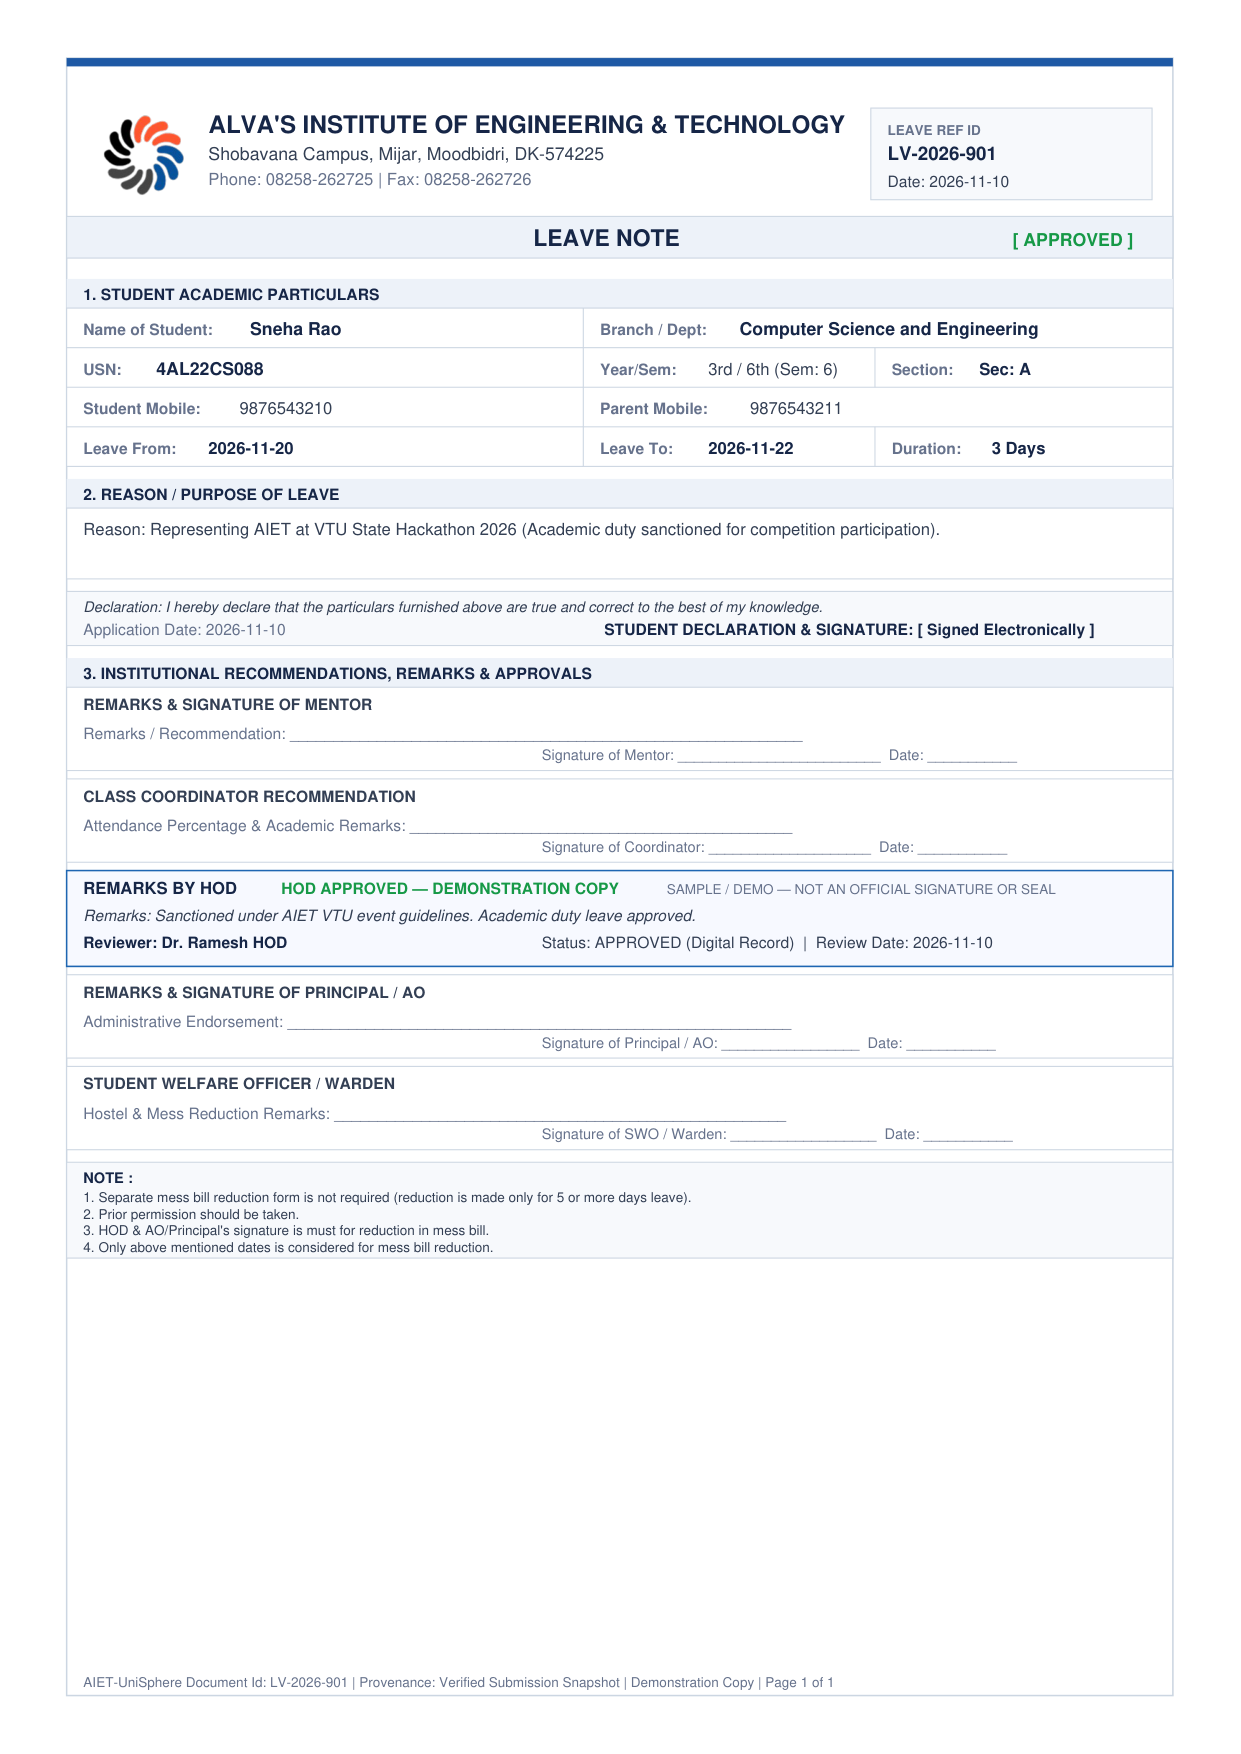
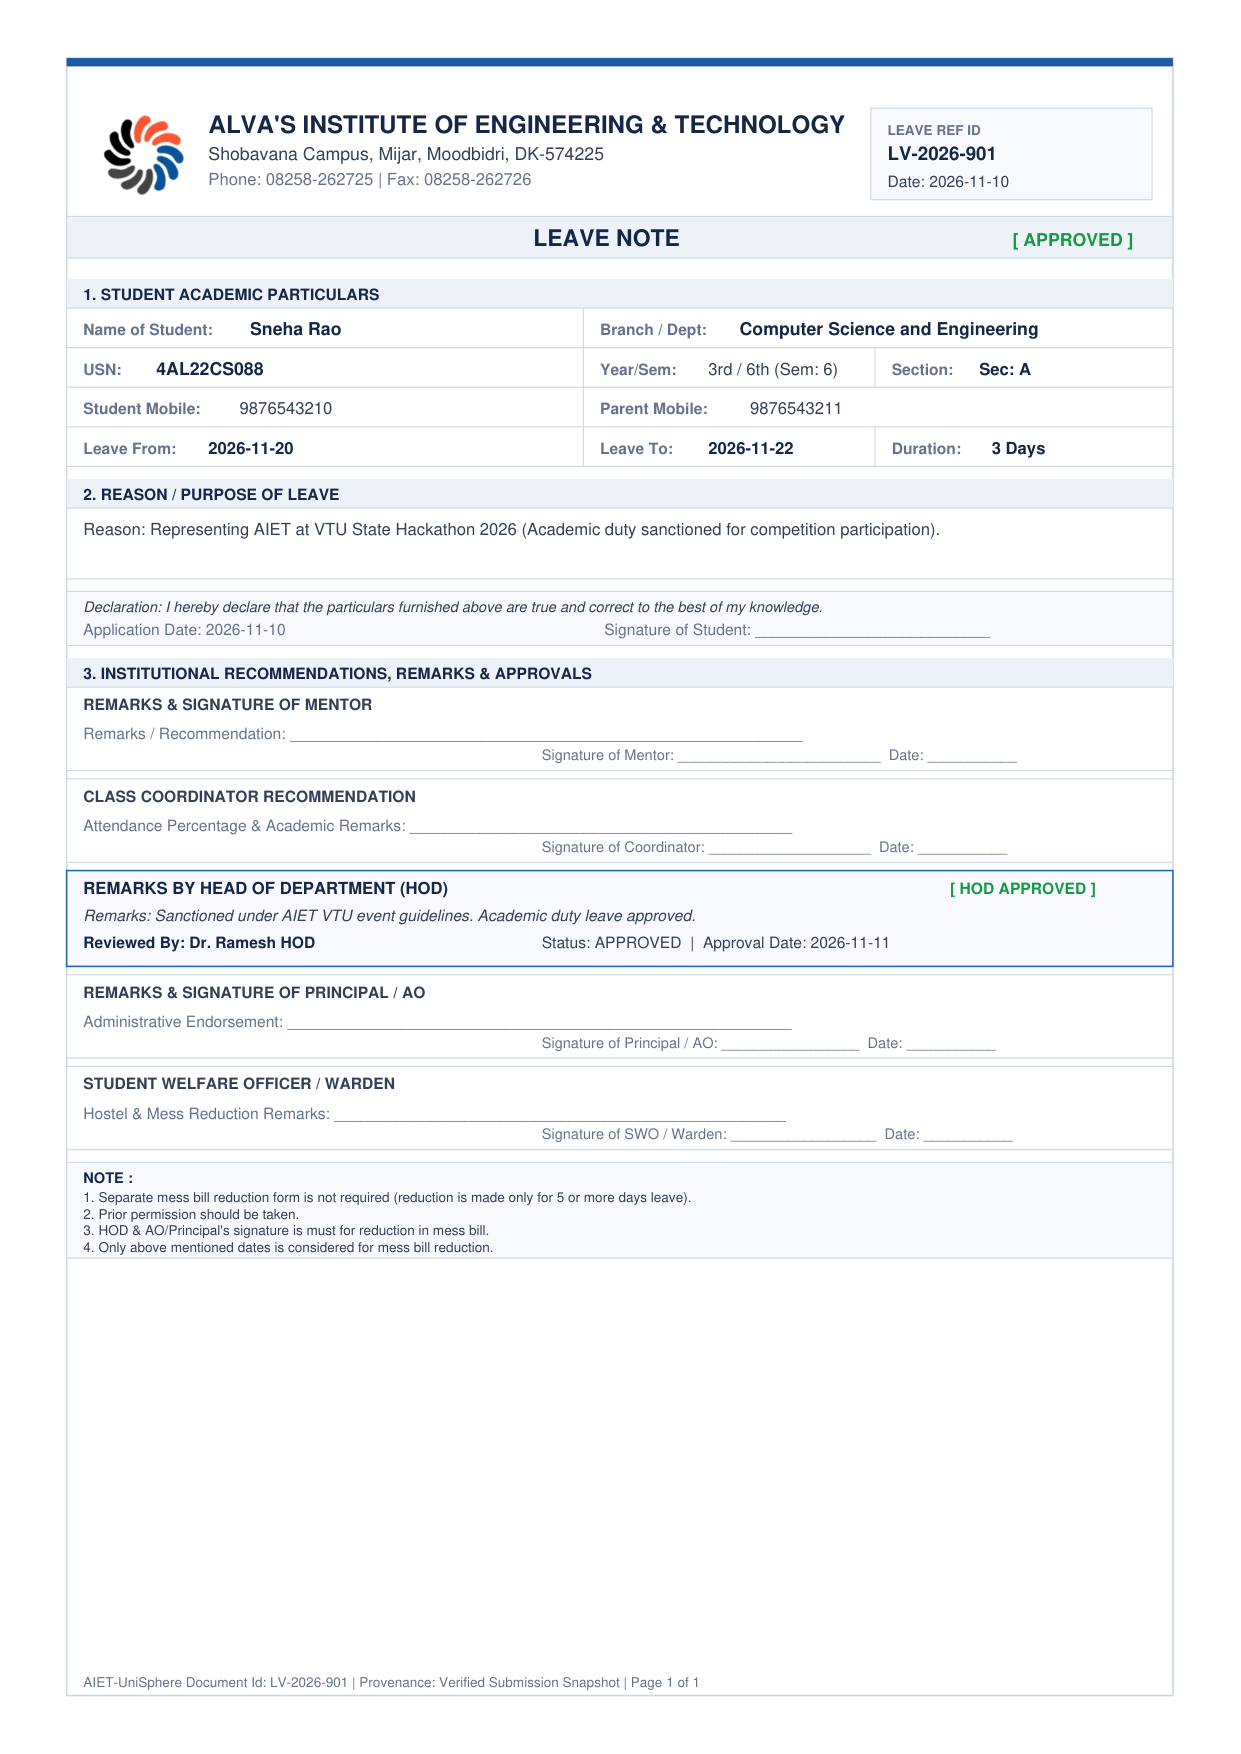
fix(leave): purge all demonstration fallbacks, enforce authentic approval metadata, and verify case-insensitive status button

diff --git a/src/services/leaveNotePdfService.ts b/src/services/leaveNotePdfService.ts
@@ -155,8 +155,8 @@ export const generateLeaveNoteDocument = async (
   const white = rgb(1, 1, 1);
 
   // 1. Resolve student details (prioritizing immutable snapshots)
-  const studentName = leave.studentNameSnapshot || leave.requesterName || 'Legacy Student';
-  const branchName = leave.branchSnapshot || leave.departmentName || 'Civil Engineering';
+  const studentName = leave.studentNameSnapshot || leave.requesterName || '-';
+  const branchName = leave.branchSnapshot || leave.departmentName || '-';
   const studentUsn = leave.studentUsnSnapshot || leave.requesterUsnOrEmpId || '-';
   const semesterVal = leave.semesterSnapshot || leave.semester;
   const yearSemStr = formatYearSem(semesterVal);
@@ -168,9 +168,10 @@ export const generateLeaveNoteDocument = async (
   const numDaysStr = `${leave.days || 1} Day${(leave.days || 1) > 1 ? 's' : ''}`;
   const submittedRaw = leave.submittedAt || (leave as any).createdAt;
   const applicationDate = submittedRaw ? String(submittedRaw).split('T')[0] : new Date().toLocaleDateString();
-  const cleanReason = leave.reason?.trim() || 'Leave requested for academic records.';
-  const reviewerName = leave.reviewerName || leave.reviewedBy || 'Dr. Ramesh HOD';
-  const hodRemarks = leave.approvalRemarks?.trim() || 'Leave request sanctioned and approved for academic records.';
+  const cleanReason = leave.reason?.trim() || '-';
+  const reviewerName = leave.reviewerName || leave.reviewedBy || '-';
+  const hodRemarks = leave.approvalRemarks?.trim() || '';
+  const approvalTimestamp = leave.reviewedAt ? String(leave.reviewedAt).split('T')[0] : '-';
 
   // Provenance label
   const provenanceLabel = leave.snapshotProvenance === 'RETROACTIVE_BACKFILL'
@@ -225,17 +226,18 @@ export const generateLeaveNoteDocument = async (
 
   if (isApprovedMode) {
     textLog.push(
-      "HOD APPROVED — DEMONSTRATION COPY",
       "HOD APPROVED",
-      "DEMONSTRATION COPY",
-      "SAMPLE / DEMO — NOT AN OFFICIAL SIGNATURE OR SEAL",
-      "SAMPLE / DEMO",
-      "NOT AN OFFICIAL SIGNATURE OR SEAL",
-      `Reviewer: ${reviewerName}`,
+      "APPROVED",
+      `Reviewed By: ${reviewerName}`,
       reviewerName,
-      `HOD Remarks: ${hodRemarks}`,
-      hodRemarks
+      `Approval Date: ${approvalTimestamp}`,
+      approvalTimestamp
     );
+    if (hodRemarks) {
+      textLog.push(`HOD Remarks: ${hodRemarks}`, `Remarks: ${hodRemarks}`, hodRemarks);
+    } else {
+      textLog.push("Remarks: -");
+    }
   } else {
     textLog.push("Student Leave Application Form");
   }
@@ -438,7 +440,7 @@ export const generateLeaveNoteDocument = async (
   });
   drawBounded("Declaration: I hereby declare that the particulars furnished above are true and correct to the best of my knowledge.", 40, declY - 10, fontOblique, 7.0, slateDark);
   drawBounded(`Application Date: ${applicationDate}`, 40, declY - 21, fontRegular, 7.5, slateMuted);
-  drawBounded("STUDENT DECLARATION & SIGNATURE: [ Signed Electronically ]", 290, declY - 21, fontBold, 7.5, primaryNavy);
+  drawBounded("Signature of Student: ___________________________", 290, declY - 21, fontRegular, 7.5, slateMuted);
 
   // --- 7. SECTION 4: INSTITUTIONAL RECOMMENDATIONS & APPROVALS (5 BLOCKS) ---
   const authHeaderY = declY - 26 - 6;
@@ -481,18 +483,18 @@ export const generateLeaveNoteDocument = async (
       borderWidth: 0.75,
       color: rgb(0.97, 0.98, 1.0)
     });
-    drawBounded("REMARKS BY HOD", 40, hodY - 11, fontBold, 8.0, primaryNavy);
-    drawBounded("HOD APPROVED — DEMONSTRATION COPY", 135, hodY - 11, fontBold, 7.5, greenApproved);
-    drawBounded("SAMPLE / DEMO — NOT AN OFFICIAL SIGNATURE OR SEAL", 320, hodY - 11, fontRegular, 6.5, slateMuted);
+    drawBounded("REMARKS BY HEAD OF DEPARTMENT (HOD)", 40, hodY - 11, fontBold, 8.0, primaryNavy);
+    drawBounded("[ HOD APPROVED ]", 456, hodY - 11, fontBold, 7.5, greenApproved);
 
-    const wrappedHod = wrapTextToWidth(`Remarks: ${hodRemarks}`, 510, fontOblique, 7.5);
-    drawBounded(wrappedHod[0] || `Remarks: ${hodRemarks}`, 40, hodY - 24, fontOblique, 7.5, slateDark, 510);
+    const hodRemarksDisplay = hodRemarks ? `Remarks: ${hodRemarks}` : 'Remarks: -';
+    const wrappedHod = wrapTextToWidth(hodRemarksDisplay, 510, fontOblique, 7.5);
+    drawBounded(wrappedHod[0] || hodRemarksDisplay, 40, hodY - 24, fontOblique, 7.5, slateDark, 510);
 
-    drawBounded(`Reviewer: ${reviewerName}`, 40, hodY - 37, fontBold, 7.5, primaryNavy, 220);
-    drawBounded(`Status: APPROVED (Digital Record)  |  Review Date: ${applicationDate}`, 260, hodY - 37, fontRegular, 7.5, slateDark, 260);
+    drawBounded(`Reviewed By: ${reviewerName}`, 40, hodY - 37, fontBold, 7.5, primaryNavy, 220);
+    drawBounded(`Status: APPROVED  |  Approval Date: ${approvalTimestamp}`, 260, hodY - 37, fontRegular, 7.5, slateDark, 260);
   } else {
     page.drawRectangle({ x: 32, y: hodY - hodBoxH, width: 531, height: hodBoxH, borderColor: borderLight, borderWidth: 0.5, color: white });
-    drawBounded("REMARKS BY HOD", 40, hodY - 11, fontBold, 7.5, slateDark);
+    drawBounded("REMARKS BY HEAD OF DEPARTMENT (HOD)", 40, hodY - 11, fontBold, 7.5, slateDark);
     drawBounded("Department Head Review Remarks: ____________________________________________________", 40, hodY - 26, fontRegular, 7.5, slateMuted);
     drawBounded("Signature of HOD: ___________________________  Date: ___________", 260, hodY - 39, fontRegular, 7.0, slateMuted);
   }
@@ -532,7 +534,7 @@ export const generateLeaveNoteDocument = async (
   // --- 9. DOCUMENT FOOTER ---
   const footerY = 32;
   drawBounded(
-    `AIET-UniSphere Document Id: ${leave.id || 'N/A'} | ${provenanceLabel} | Demonstration Copy | Page 1 of 1`,
+    `AIET-UniSphere Document Id: ${leave.id || 'N/A'} | ${provenanceLabel} | Page 1 of 1`,
     40,
     footerY,
     fontRegular,

diff --git a/src/pages/LeaveRequestsPage.tsx b/src/pages/LeaveRequestsPage.tsx
@@ -8,6 +8,7 @@ import {
   downloadApprovedLeaveNote,
   downloadStudentApplicationPdf,
   downloadLeavePdf,
+  isLeaveApproved,
   getStudentLeaveProfileDefaults 
 } from '../services/leaveService';
 import type { LeaveRequest } from '../data/leaveRequests';
@@ -232,7 +233,7 @@ export const LeaveRequestsPage: React.FC = () => {
                       {l.reviewedBy || 'Pending Review'}
                     </td>
                     <td style={{ padding: '1rem' }}>
-                      {l.status === 'Approved' ? (
+                      {isLeaveApproved(l.status) ? (
                         <button
                           onClick={() => handleDownloadLeaveNote(l)}
                           className="btn font-sans"
